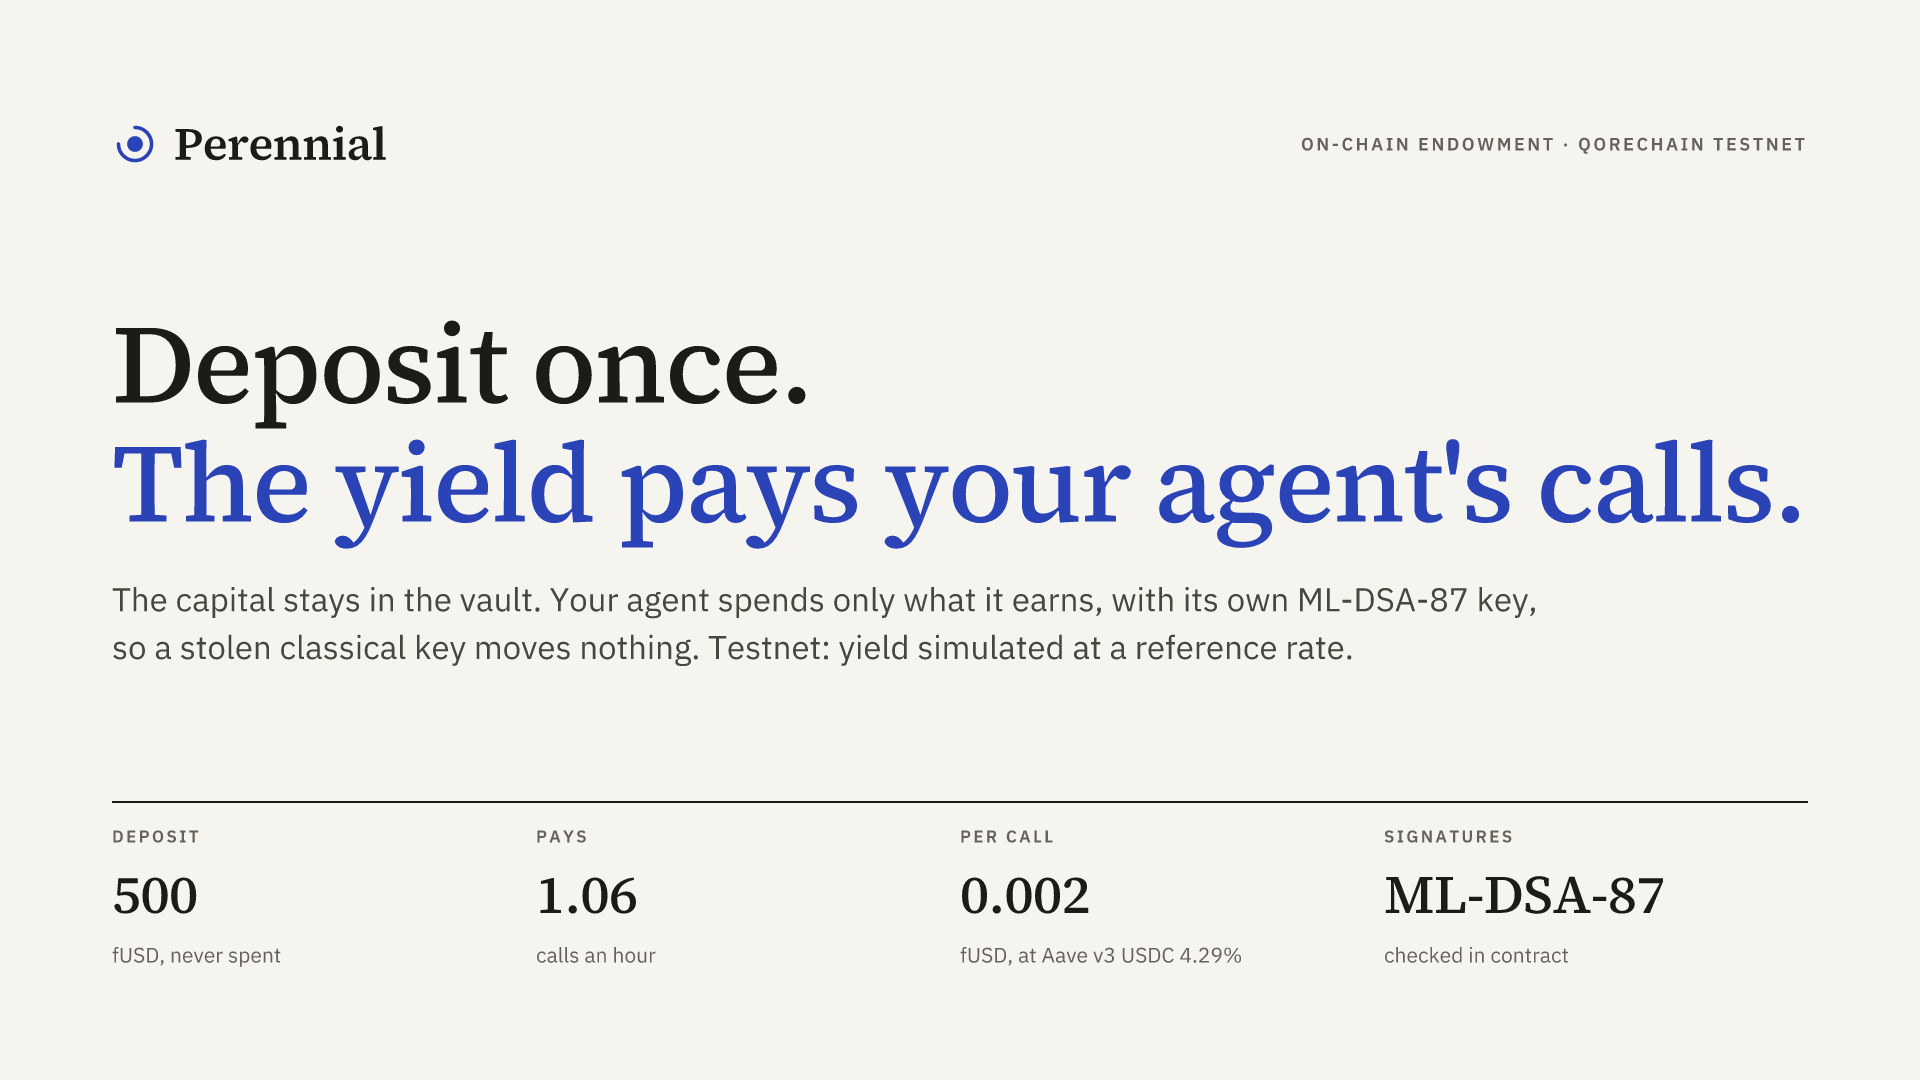
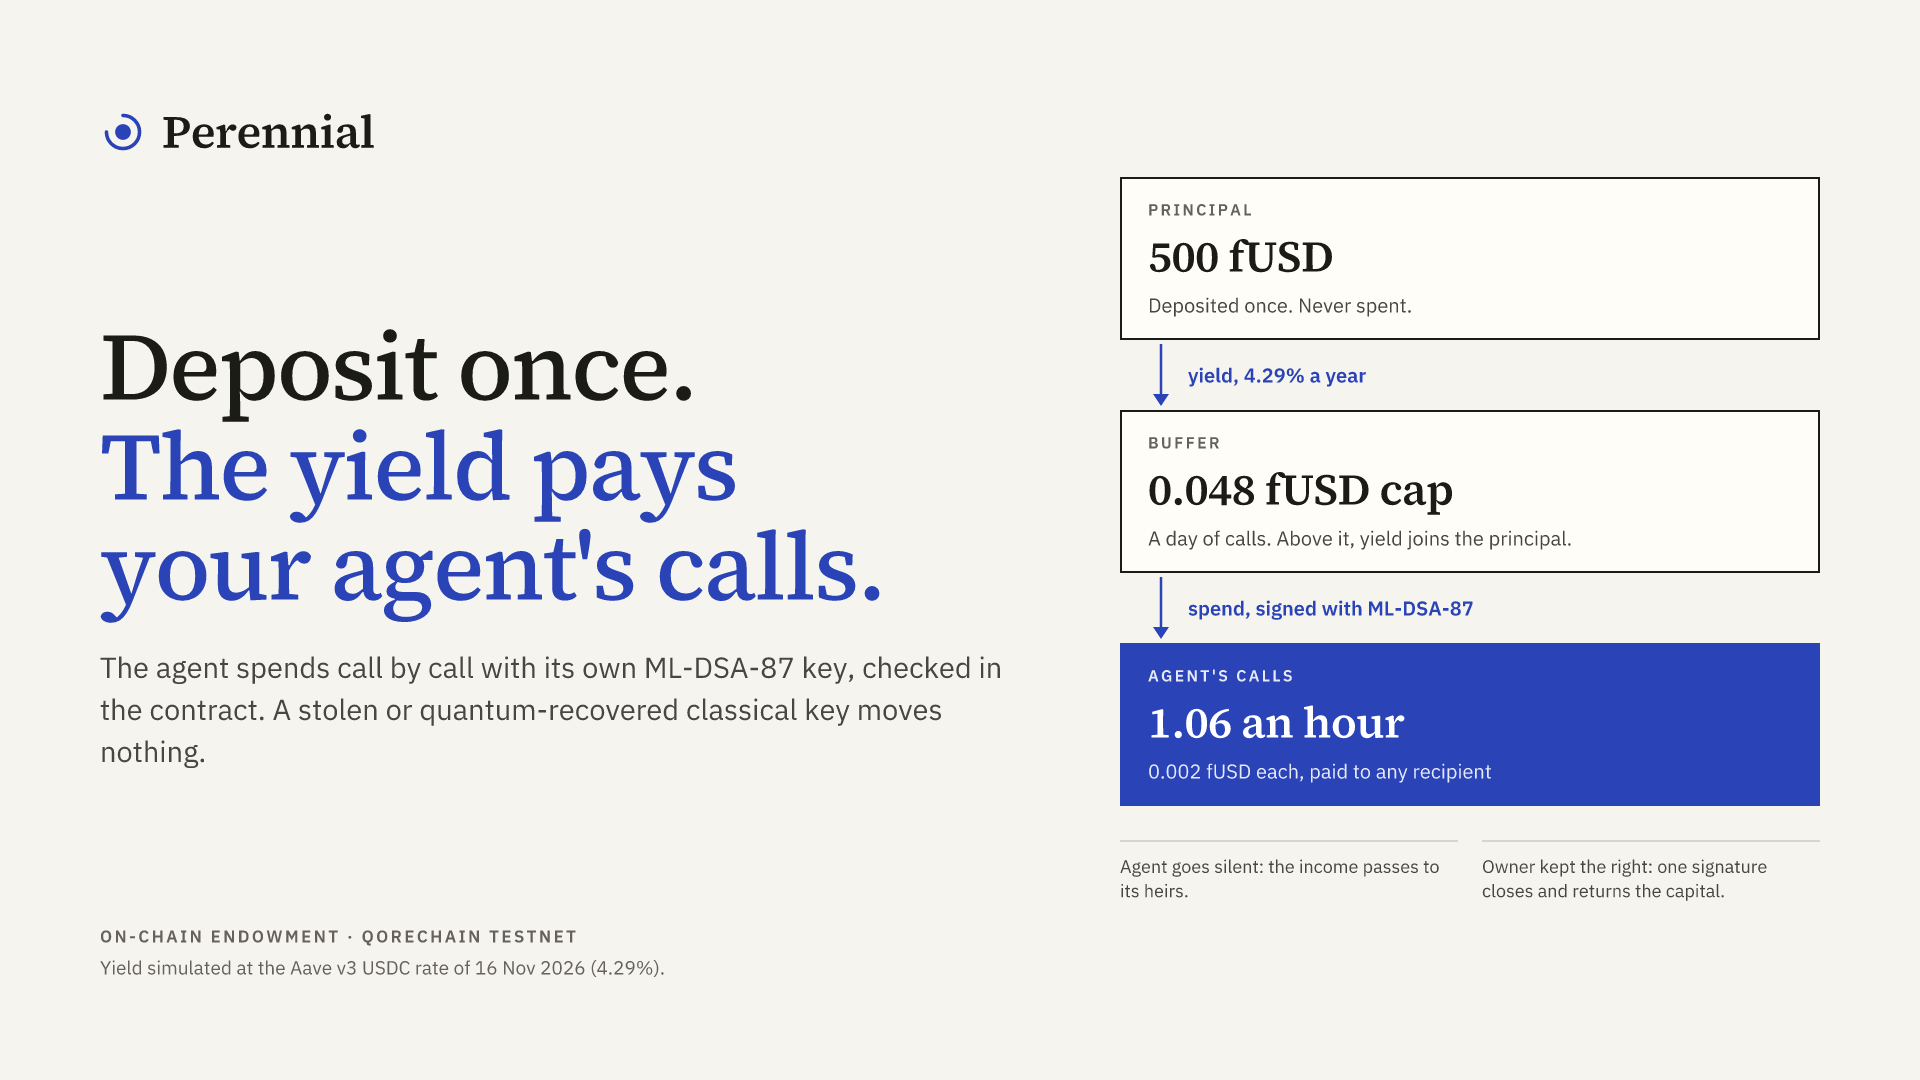
feat(brand): draw the mechanism on the cover
The cover and link preview now show the flow beside the promise:
principal, yield, the capped buffer and the agent's signed spends, with
succession to heirs and the owner's close underneath. Figures at the
Aave v3 USDC reference rate.

diff --git a/app/scripts/brand.ts b/app/scripts/brand.ts
@@ -80,65 +80,113 @@ function label(text: string, size: number): Node {
   return h("div", { fontFamily: "Sans", fontWeight: 600, fontSize: size, letterSpacing: size * 0.14, color: color("ink-3") }, text.toUpperCase());
 }
 
-function figure(name: string, value: string, unit: string, scale: number): Node {
-  return h(
-    "div",
-    { display: "flex", flexDirection: "column", gap: 10 * scale, flex: 1, paddingTop: 22 * scale, paddingRight: 24 * scale },
-    label(name, 17 * scale),
-    h("div", { fontFamily: "Serif", fontWeight: 500, fontSize: 54 * scale, color: color("ink"), letterSpacing: -0.5, whiteSpace: "nowrap" }, value),
-    h("div", { fontFamily: "Sans", fontSize: 21 * scale, color: color("ink-3") }, unit),
-  );
+/** A downward arrow, drawn, so it does not depend on a font's glyphs. */
+function arrow(stroke: string, height: number, scale: number): Node {
+  const w = 22 * scale;
+  return {
+    type: "svg",
+    props: {
+      width: w,
+      height,
+      viewBox: `0 0 22 ${(height / scale).toString()}`,
+      children: [
+        { type: "line", props: { x1: 11, y1: 0, x2: 11, y2: height / scale - 9, stroke, strokeWidth: 2.5 } },
+        { type: "path", props: { d: `M3 ${(height / scale - 12).toString()} L11 ${(height / scale).toString()} L19 ${(height / scale - 12).toString()} Z`, fill: stroke } },
+      ],
+    },
+  };
 }
 
-/** The cover and the social preview share one composition, scaled. */
-function composition(width: number, height: number): Node {
-  const s = width / 1920;
-  const pad = 112 * s;
+/** One stage of the mechanism: a box with a label, a figure and a note. */
+function stage(name: string, value: string, note: string, scale: number, filled = false): Node {
+  const ink = filled ? color("accent-ink") : color("ink");
   return h(
     "div",
     {
-      width,
-      height,
       display: "flex",
       flexDirection: "column",
-      justifyContent: "space-between",
-      padding: pad,
-      backgroundColor: color("paper"),
-      fontFamily: "Sans",
+      gap: 6 * scale,
+      padding: `${20 * scale}px ${26 * scale}px`,
+      backgroundColor: filled ? color("accent") : color("field"),
+      border: `${Math.max(1, 2 * scale)}px solid ${filled ? color("accent") : color("rule-strong")}`,
     },
+    h("div", { fontFamily: "Sans", fontWeight: 600, fontSize: 16 * scale, letterSpacing: 16 * scale * 0.14, color: filled ? color("accent-wash") : color("ink-3") }, name.toUpperCase()),
+    h("div", { fontFamily: "Serif", fontWeight: 600, fontSize: 44 * scale, color: ink, letterSpacing: -0.5 }, value),
+    h("div", { fontFamily: "Sans", fontSize: 20 * scale, color: filled ? color("accent-wash") : color("ink-2") }, note),
+  );
+}
+
+/** The link between two stages: an arrow and what travels along it. */
+function flow(text: string, scale: number): Node {
+  return h(
+    "div",
+    { display: "flex", alignItems: "center", gap: 16 * scale, paddingLeft: 30 * scale, height: 70 * scale },
+    arrow(color("accent"), 62 * scale, scale),
+    h("div", { fontFamily: "Sans", fontWeight: 600, fontSize: 20 * scale, color: color("accent") }, text),
+  );
+}
+
+function aside(text: string, scale: number): Node {
+  return h(
+    "div",
+    { display: "flex", flex: 1, fontFamily: "Sans", fontSize: 18 * scale, lineHeight: 1.35, color: color("ink-2"), borderTop: `${Math.max(1, 2 * scale)}px solid ${color("rule")}`, paddingTop: 12 * scale },
+    text,
+  );
+}
+
+/** The cover and the social preview share one composition, scaled: the promise on the left, the mechanism on the right. */
+function composition(width: number, height: number): Node {
+  const s = width / 1920;
+  const pad = 100 * s;
+  return h(
+    "div",
+    { width, height, display: "flex", padding: pad, gap: 88 * s, backgroundColor: color("paper"), fontFamily: "Sans" },
     h(
       "div",
-      { display: "flex", justifyContent: "space-between", alignItems: "center" },
+      { display: "flex", flexDirection: "column", justifyContent: "space-between", flex: 1 },
       h(
         "div",
-        { display: "flex", alignItems: "center", gap: 16 * s, color: color("ink") },
+        { display: "flex", alignItems: "center", gap: 16 * s },
         markSvg(color("accent"), 46 * s),
         h("div", { fontFamily: "Serif", fontWeight: 600, fontSize: 46 * s, color: color("ink"), letterSpacing: -0.5 }, "Perennial"),
       ),
-      label("On-chain endowment · QoreChain testnet", 18 * s),
-    ),
-    h(
-      "div",
-      { display: "flex", flexDirection: "column", gap: 34 * s },
       h(
         "div",
-        { display: "flex", flexDirection: "column", fontFamily: "Serif", fontWeight: 500, fontSize: 112 * s, lineHeight: 1.06, color: color("ink"), letterSpacing: -2 * s },
-        h("div", {}, "Deposit once."),
-        h("div", { color: color("accent") }, "The yield pays your agent's calls."),
+        { display: "flex", flexDirection: "column", gap: 30 * s },
+        h(
+          "div",
+          { display: "flex", flexDirection: "column", fontFamily: "Serif", fontWeight: 500, fontSize: 96 * s, lineHeight: 1.04, color: color("ink"), letterSpacing: -2 * s },
+          h("div", {}, "Deposit once."),
+          h("div", { color: color("accent") }, "The yield pays"),
+          h("div", { color: color("accent") }, "your agent's calls."),
+        ),
+        h(
+          "div",
+          { fontSize: 29 * s, lineHeight: 1.45, color: color("ink-2") },
+          "The agent spends call by call with its own ML-DSA-87 key, checked in the contract. A stolen or quantum-recovered classical key moves nothing.",
+        ),
       ),
       h(
         "div",
-        { fontSize: 33 * s, lineHeight: 1.45, color: color("ink-2"), maxWidth: 1440 * s },
-        "The capital stays in the vault. Your agent spends only what it earns, with its own ML-DSA-87 key, so a stolen classical key moves nothing. Testnet: yield simulated at a reference rate.",
+        { display: "flex", flexDirection: "column", gap: 8 * s },
+        label("On-chain endowment · QoreChain testnet", 17 * s),
+        h("div", { fontFamily: "Sans", fontSize: 19 * s, color: color("ink-3") }, "Yield simulated at the Aave v3 USDC rate of 16 Nov 2026 (4.29%)."),
       ),
     ),
     h(
       "div",
-      { display: "flex", borderTop: `${Math.max(1, 2 * s)}px solid ${color("rule-strong")}` },
-      figure("Deposit", "500", "fUSD, never spent", s),
-      figure("Pays", "1.06", "calls an hour", s),
-      figure("Per call", "0.002", "fUSD, at Aave v3 USDC 4.29%", s),
-      figure("Signatures", "ML-DSA-87", "checked in contract", s),
+      { display: "flex", flexDirection: "column", justifyContent: "center", width: 700 * s },
+      stage("Principal", "500 fUSD", "Deposited once. Never spent.", s),
+      flow("yield, 4.29% a year", s),
+      stage("Buffer", "0.048 fUSD cap", "A day of calls. Above it, yield joins the principal.", s),
+      flow("spend, signed with ML-DSA-87", s),
+      stage("Agent's calls", "1.06 an hour", "0.002 fUSD each, paid to any recipient", s, true),
+      h(
+        "div",
+        { display: "flex", gap: 24 * s, marginTop: 34 * s },
+        aside("Agent goes silent: the income passes to its heirs.", s),
+        aside("Owner kept the right: one signature closes and returns the capital.", s),
+      ),
     ),
   );
 }
